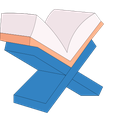
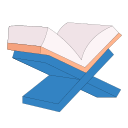
Add ability to switch between languages
This change also includes an updated icon128x128.png image

diff --git a/src/js/components/Select/LanguageSelect.tsx b/src/js/components/Select/LanguageSelect.tsx
@@ -1,5 +1,7 @@
 import { Quran, TLocale } from "@0x1eef/quran";
 import { Select } from "~/components/Select";
+import { useSoftKeys } from "~/hooks/useSoftKeys";
+import { getNextRef, findActiveElement } from "~/lib/utils";
 
 type Props = {
   locale: TLocale;
@@ -8,27 +10,18 @@ type Props = {
 
 export function LanguageSelect({ locale, setLocale }: Props) {
   const [isOpen, setIsOpen] = useState<boolean>(false);
-  const locales = useMemo(() => Object.values(Quran.locales), [Quran.locales]);
-  const refs = useMemo(() => locales.map(() => createRef()), [locales]);
+  const locales = useMemo(() => Object.values(Quran.locales), []);
+  const refs = useMemo(() => locales.map(() => createRef()), []);
+  const { SoftLeft } = useSoftKeys(locale);
 
   if (!locale) {
     return null;
   }
 
-  function findAnchor(e: KeyboardEvent) {
-    if (e.target instanceof HTMLAnchorElement) {
-      const { target } = e;
-      const index = Number(target.getAttribute("data-index"));
-      return refs[index]?.current;
-    } else {
-      return null;
-    }
-  }
-
   useEffect(() => {
     function onKeyPress(e: KeyboardEvent) {
-      if (e.key === "SoftLeft") {
-        const anchor = findAnchor(e);
+      if (e.key === SoftLeft) {
+        const anchor = findActiveElement({ context: "language-select", refs });
         if (anchor) {
           setIsOpen(!isOpen);
           anchor.focus();
@@ -38,6 +31,21 @@ export function LanguageSelect({ locale, setLocale }: Props) {
     document.addEventListener("keydown", onKeyPress);
     return () => document.removeEventListener("keydown", onKeyPress);
   }, [isOpen]);
+
+  useEffect(() => {
+    function onKeyPress(e: KeyboardEvent) {
+      if (["ArrowUp", "ArrowDown"].indexOf(e.key) >= 0) {
+        const el = document.activeElement;
+        const ctx = el?.getAttribute("data-context");
+        if (ctx === "language-select") {
+          const anchor = getNextRef(e, refs)?.current;
+          anchor.focus();
+        }
+      }
+    }
+    document.addEventListener("keydown", onKeyPress);
+    return () => document.removeEventListener("keydown", onKeyPress);
+  }, [locale.name]);
 
   return (
     <Select
@@ -50,18 +58,16 @@ export function LanguageSelect({ locale, setLocale }: Props) {
         return (
           <Select.Option
             data-index={i}
+            data-context="language-select"
             ref={refs[i]}
             key={i}
             className={classNames(
               "flex h-4 text-sm w-full items-center justify-center no-underline rounded pb-1 pt-1 mb-1 border-accent",
               l.direction,
-              l.name === locale.name ? "active font-bold" : undefined,
+              l.name === locale.name ? "active" : undefined,
             )}
             value={l.name}
-            onClick={(e: React.MouseEvent<HTMLAnchorElement>) => {
-              e.preventDefault();
-              setLocale(l);
-            }}
+            onClick={() => setLocale(l)}
           >
             {l.displayName}
           </Select.Option>

diff --git a/src/js/components/SurahIndex/index.tsx b/src/js/components/SurahIndex/index.tsx
@@ -3,6 +3,7 @@ import { useTheme } from "~/hooks/useTheme";
 import { formatNumber, TFunction } from "~/lib/t";
 import { Arrow } from "~/components/Icon";
 import { Head } from "~/components/Head";
+import { getNextRef } from "~/lib/utils";
 import "@css/main/SurahIndex.scss";
 
 type Props = {
@@ -19,20 +20,6 @@ export function SurahIndex({ localeId, t }: Props) {
     () => Quran.surahs[locale.name].map(() => createRef()),
     Quran.surahs.length,
   );
-
-  function getNextRef(e: KeyboardEvent) {
-    if (e.target instanceof HTMLAnchorElement) {
-      const { target } = e;
-      const index = Number(target.getAttribute("data-index"));
-      if (e.key === "ArrowDown") {
-        return refs[index + 1];
-      } else if (e.key === "ArrowUp") {
-        return refs[index - 1];
-      } else {
-        return refs[index];
-      }
-    }
-  }
 
   function getNextScrollTop(e: KeyboardEvent) {
     const ul = ulRef.current;
@@ -52,7 +39,7 @@ export function SurahIndex({ localeId, t }: Props) {
     if (!ul) {
       return;
     } else {
-      const anchor = getNextRef(e)?.current;
+      const anchor = getNextRef(e, refs)?.current;
       if (anchor) {
         anchor.focus();
         ul.scroll({ behavior: "auto" });
@@ -67,7 +54,7 @@ export function SurahIndex({ localeId, t }: Props) {
     if (anchor) {
       anchor.focus();
     }
-  }, []);
+  }, [locale.name]);
 
   useEffect(() => {
     refs.forEach((ref: React.RefObject<HTMLAnchorElement>) => {

diff --git a/src/js/components/Select/ThemeSelect.tsx b/src/js/components/Select/ThemeSelect.tsx
@@ -1,18 +1,22 @@
 import { Select } from "~/components/Select";
+import type { TLocale } from "@0x1eef/quran";
 import type { Theme } from "~/hooks/useTheme";
+import { useSoftKeys } from "~/hooks/useSoftKeys";
 
 type Props = {
+  locale: TLocale;
   theme: string;
   setTheme: (theme: Theme) => void;
 };
 
-export function ThemeSelect({ theme, setTheme }: Props) {
+export function ThemeSelect({ locale, theme, setTheme }: Props) {
   const [isOpen, setIsOpen] = useState<boolean>(false);
   const themes: Theme[] = useMemo(() => ["blue", "green"], []);
-  const refs = useMemo(() => themes.map(() => createRef()), [themes]);
+  const refs = useMemo(() => themes.map(() => createRef()), []);
+  const { SoftRight } = useSoftKeys(locale);
 
   function onKeyPress(e: KeyboardEvent) {
-    if (e.key === "SoftRight") {
+    if (e.key === SoftRight) {
       setIsOpen(!isOpen);
     }
   }
@@ -20,7 +24,7 @@ export function ThemeSelect({ theme, setTheme }: Props) {
   useEffect(() => {
     document.addEventListener("keydown", onKeyPress);
     return () => document.removeEventListener("keydown", onKeyPress);
-  }, [isOpen]);
+  }, [isOpen, locale.name]);
 
   return (
     <Select

diff --git a/src/js/lib/utils.ts b/src/js/lib/utils.ts
@@ -1,0 +1,29 @@
+type Refs = React.RefObject<HTMLAnchorElement>[];
+type FindProps = { context: string; refs: Refs };
+
+export function getNextRef(e: KeyboardEvent, refs: Refs) {
+  const { target } = e;
+  const isAnchor = target instanceof HTMLAnchorElement;
+  if (!target || !isAnchor) {
+    return null;
+  }
+  const index = Number(target.getAttribute("data-index"));
+  if (e.key === "ArrowDown") {
+    return refs[index + 1];
+  } else if (e.key === "ArrowUp") {
+    return refs[index - 1];
+  } else {
+    return refs[index];
+  }
+}
+
+export function findActiveElement({ context, refs }: FindProps) {
+  const query = `[data-context='${context}'].active`;
+  const target = document.querySelector(query);
+  if (target) {
+    const index = Number(target.getAttribute("data-index"));
+    return refs[index]?.current;
+  } else {
+    return null;
+  }
+}

diff --git a/src/js/components/Head.tsx b/src/js/components/Head.tsx
@@ -26,7 +26,7 @@ export function Head({ locale, theme, setLocale, setTheme, children }: Props) {
         </div>
         <nav className="flex flex-row justify-between text-lg">
           <LanguageSelect setLocale={setLocale} locale={locale} />
-          <ThemeSelect theme={theme} setTheme={setTheme} />
+          <ThemeSelect theme={theme} setTheme={setTheme} locale={locale} />
         </nav>
       </div>
     </header>

diff --git a/src/js/components/Select/index.tsx b/src/js/components/Select/index.tsx
@@ -46,9 +46,7 @@ function Select({
               className={classNames({ hidden: isHidden })}
               onClick={(e) => {
                 e.stopPropagation();
-                const { ref } = n.props;
                 setIsOpen(!isOpen);
-                ref?.current?.click();
               }}
             >
               {n}

diff --git a/src/js/hooks/useSoftKeys.ts b/src/js/hooks/useSoftKeys.ts
@@ -1,0 +1,6 @@
+import type { TLocale } from "@0x1eef/quran";
+export function useSoftKeys(locale: TLocale) {
+  const SoftRight = locale.direction === "ltr" ? "SoftRight" : "SoftLeft";
+  const SoftLeft = locale.direction === "ltr" ? "SoftLeft" : "SoftRight";
+  return { SoftRight, SoftLeft };
+}

diff --git a/src/css/base/_select.scss b/src/css/base/_select.scss
@@ -29,7 +29,7 @@
       &:active, &:visited, &:link {
         color: var(--secondary-color);
       }
-      &:hover {
+      &:focus {
         font-weight: bold;
       }
     }
